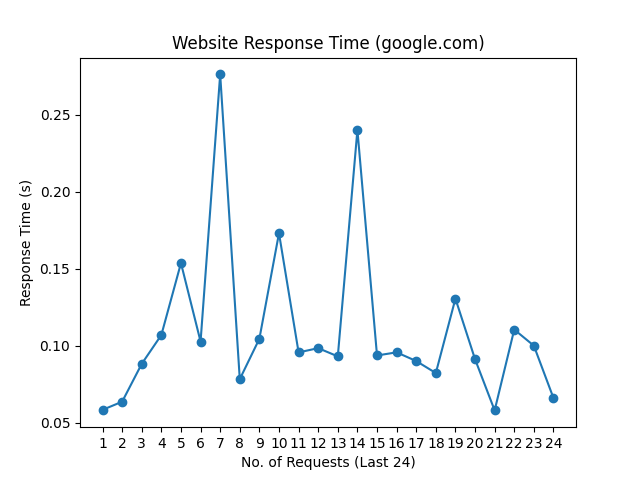
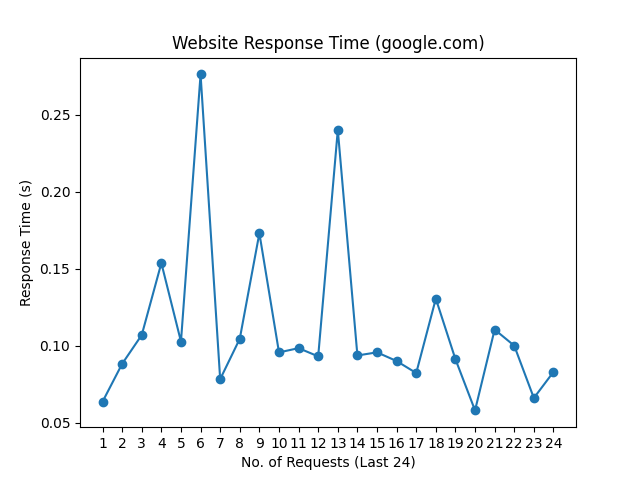
update README.md, history and graph

Changed region(s): [[0.1562, 0.125, 0.875, 0.875]]

diff --git a/README.md b/README.md
@@ -1,10 +1,10 @@
 # Web Monitoring
 
-Last Checked: 30/08/2023 08:58
+Last Checked: 31/08/2023 08:59
 
 | Website | Response Time (s) | Status | Avg Uptime (%) |
 |---------|-------------------|--------|----------------|
 | www.thiswebsiteisdown.net | 0 <br> <img src="graph/thiswebsiteisdown.net.png" alt="Graph" width="200" height="200">  | ❌ Down | 0.00 |
-| www.netflix.com | 1.099896 <br> <img src="graph/netflix.com.png" alt="Graph" width="200" height="200">  | ✅ Up | 100.00 |
-| www.google.com | 0.065958 <br> <img src="graph/google.com.png" alt="Graph" width="200" height="200">  | ✅ Up | 100.00 |
-| www.facebook.com | 0.414615 <br> <img src="graph/facebook.com.png" alt="Graph" width="200" height="200">  | ✅ Up | 100.00 |
+| www.netflix.com | 0.520416 <br> <img src="graph/netflix.com.png" alt="Graph" width="200" height="200">  | ✅ Up | 100.00 |
+| www.google.com | 0.082890 <br> <img src="graph/google.com.png" alt="Graph" width="200" height="200">  | ✅ Up | 100.00 |
+| www.facebook.com | 0.438235 <br> <img src="graph/facebook.com.png" alt="Graph" width="200" height="200">  | ✅ Up | 100.00 |
